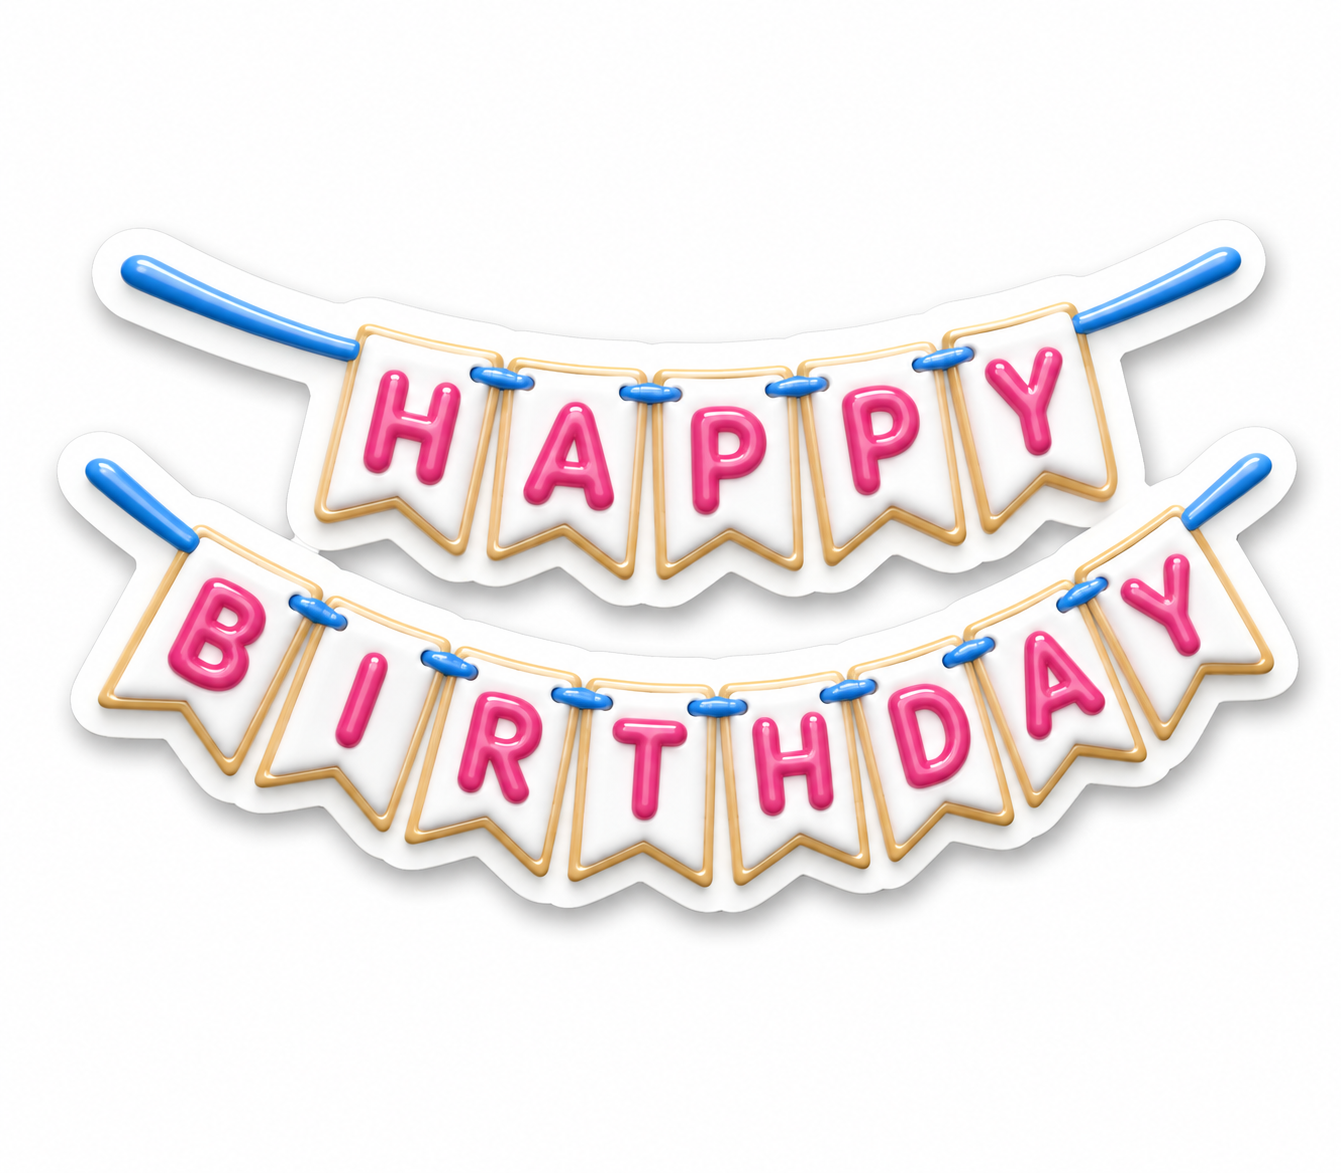
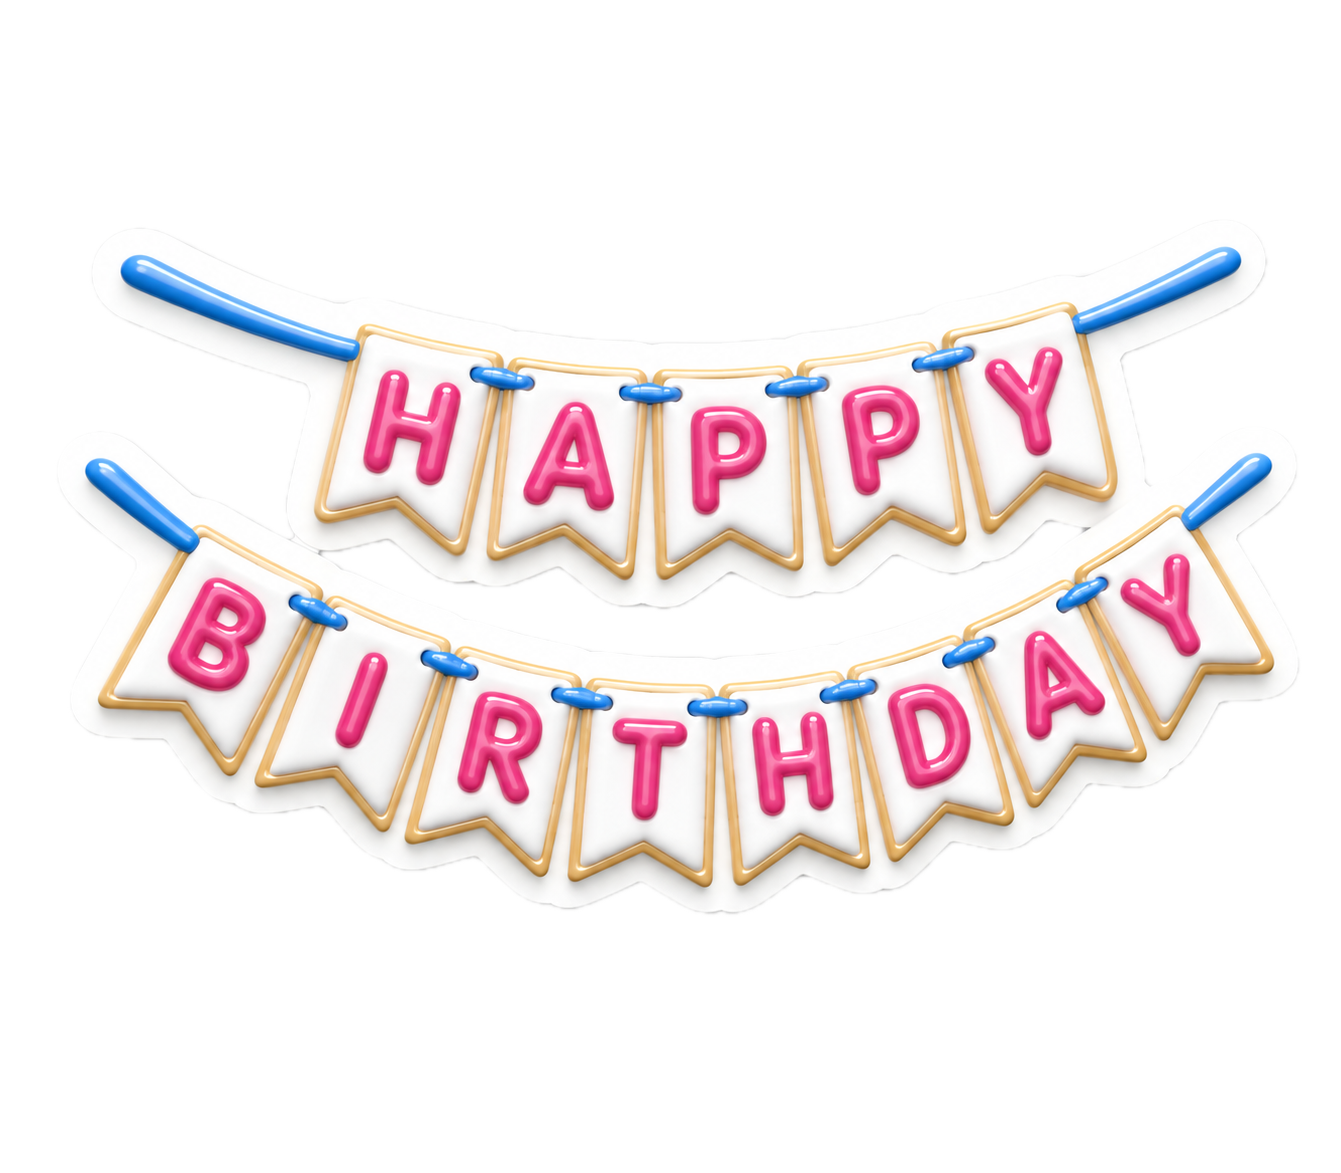
Update sticker set and shrink sticker size slightly

diff --git a/src/App.css b/src/App.css
@@ -818,8 +818,8 @@ body.gerbang-dedah .music-btn {
 .marquee {
   /* ► Laraskan kelajuan di sini — makin besar, makin perlahan */
   --sticker-marquee-duration: 40s;
-  --sticker-height: 96px;
-  --sticker-gap: 16px;
+  --sticker-height: 78px;
+  --sticker-gap: 14px;
 
   position: relative;
   margin-top: 12px;
@@ -881,8 +881,8 @@ body.gerbang-dedah .music-btn {
    supaya telefon dalam mod melintang (lebar tetapi pendek) tidak terjejas */
 @media (min-width: 760px) and (min-height: 700px) {
   .marquee {
-    --sticker-height: 140px;
-    --sticker-gap: 22px;
+    --sticker-height: 112px;
+    --sticker-gap: 18px;
   }
 }
 
